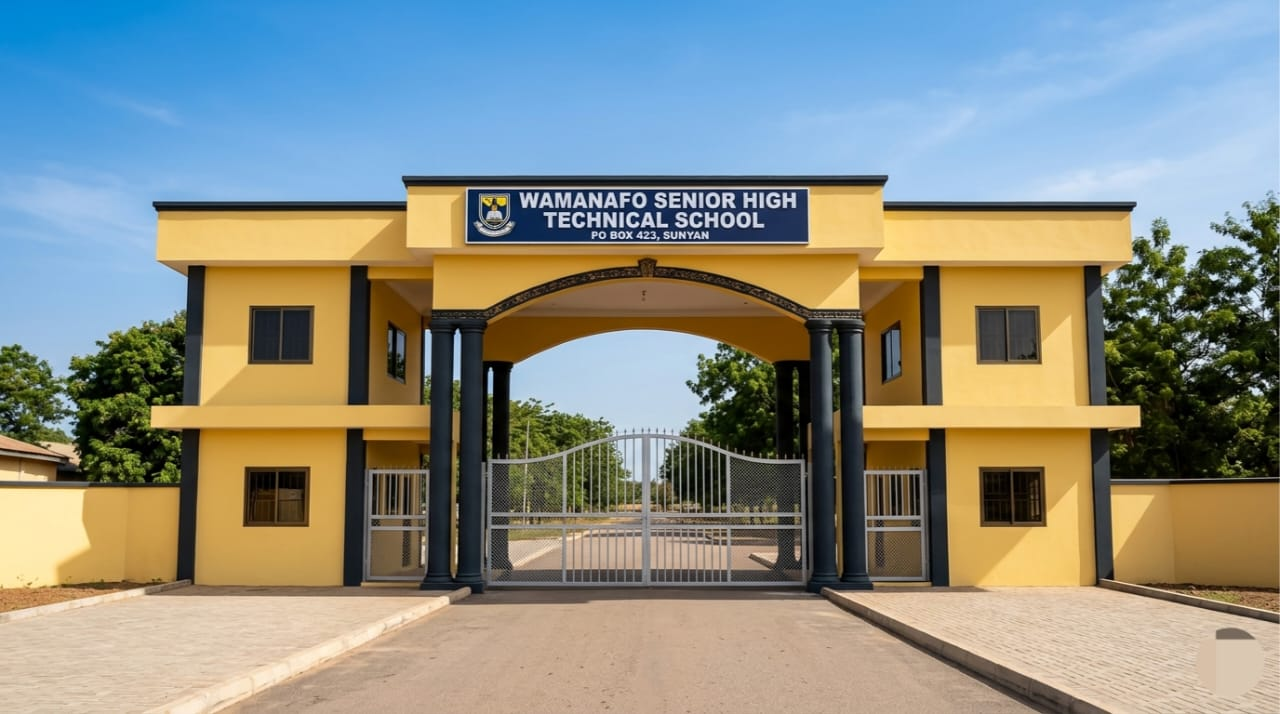
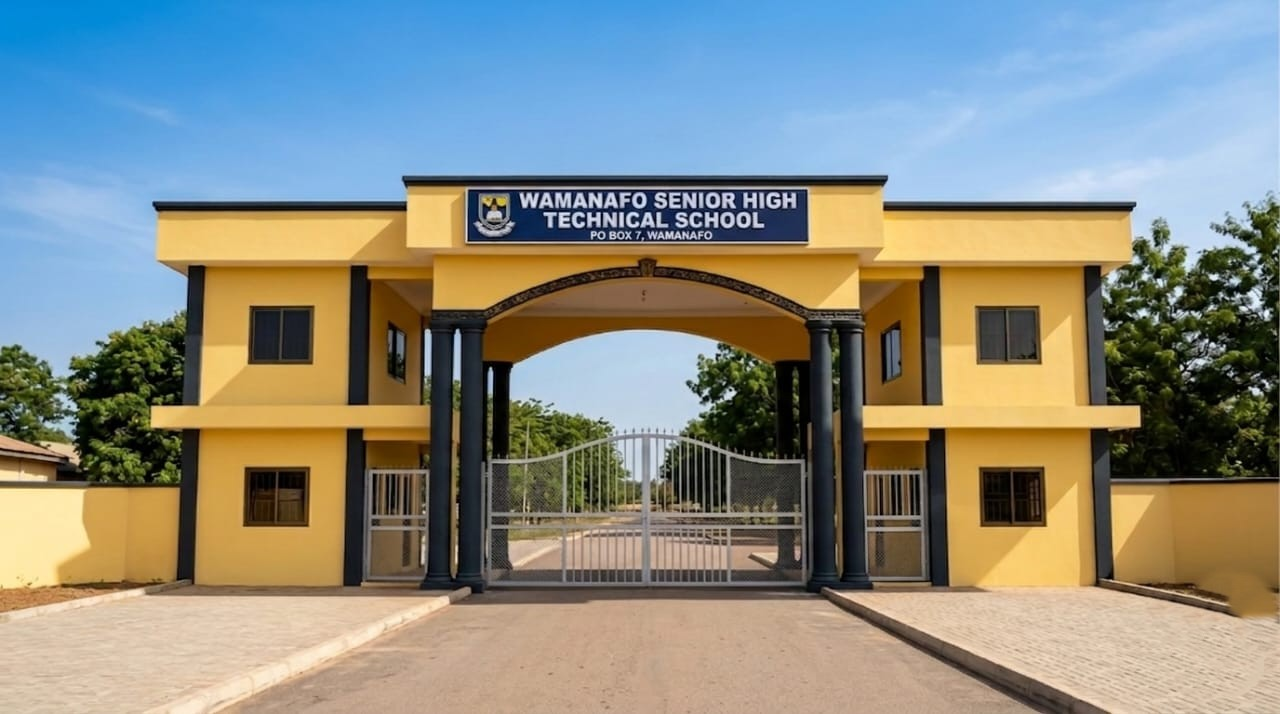
Fix frontend bugs (student, class, auth, errors)

diff --git a/components/forms/StudentForm.tsx b/components/forms/StudentForm.tsx
@@ -71,14 +71,14 @@ const inputClass = (hasError: boolean) =>
 
 interface CreateStudentFormProps {
   onSuccess: (studentId: string) => void;
-  classOptions?: Array<{ value: string; label: string }>;
-  yearOptions?:  Array<{ value: string; label: string }>;
+  classOptions?: Array<{ value: string; label: string; yearId?: string; yearLabel?: string }>;
+  yearOptions?: Array<{ value: string; label: string }>;
 }
 
 export function CreateStudentForm({
   onSuccess,
   classOptions = [],
-  yearOptions  = [],
+  yearOptions = [],
 }: CreateStudentFormProps) {
   const router = useRouter();
 
@@ -86,28 +86,57 @@ export function CreateStudentForm({
     register,
     handleSubmit,
     setError,
+    watch,
+    setValue,
+    clearErrors,
     formState: { errors, isSubmitting },
   } = useForm<CreateFormValues>({
     resolver: zodResolver(createFormSchema),
   });
 
+  const selectedClassId = watch("classId");
+  const selectedYearId = watch("yearId");
+  const selectedClass = classOptions.find((option) => option.value === selectedClassId);
+  const filteredYearOptions = selectedClass?.yearId
+    ? yearOptions.filter((option) => option.value === selectedClass.yearId)
+    : yearOptions;
+
+  useEffect(() => {
+    if (!selectedClass) return;
+    if (selectedClass.yearId && selectedYearId !== selectedClass.yearId) {
+      setValue("yearId", selectedClass.yearId, { shouldValidate: true, shouldDirty: true });
+    }
+    clearErrors("yearId");
+  }, [selectedClass, selectedYearId, setValue, clearErrors]);
+
   async function onSubmit(data: CreateFormValues) {
-    // Strip empty optional strings so backend doesn't see ""
+    if (data.classId && !data.yearId) {
+      setError("yearId", { message: "Select the academic year for the chosen class." });
+      return;
+    }
+
+    if (selectedClass?.yearId && data.yearId && selectedClass.yearId !== data.yearId) {
+      setError("yearId", {
+        message: `Selected class belongs to ${selectedClass.yearLabel ?? "a different academic year"}.`,
+      });
+      return;
+    }
+
     const payload = {
       ...data,
       dateOfBirth: data.dateOfBirth || undefined,
-      classId:     data.classId     || undefined,
-      yearId:      data.yearId      || undefined,
-      gender:      data.gender      || undefined,
+      classId: data.classId || undefined,
+      yearId: data.yearId || undefined,
+      gender: data.gender || undefined,
     };
 
     const res = await apiFetch<{ id: string }>("/api/v1/students", {
       method: "POST",
-      body:   JSON.stringify(payload),
+      body: JSON.stringify(payload),
     });
 
     if (!res.success) {
-      setError("root", { message: res.error ?? "An error occurred." });
+      setError("root", { message: res.error ?? "Unable to create the student right now." });
       return;
     }
 
@@ -190,10 +219,13 @@ export function CreateStudentForm({
           <Field label="Academic year" error={errors.yearId?.message}>
             <select {...register("yearId")} className={inputClass(!!errors.yearId)}>
               <option value="">Select year…</option>
-              {yearOptions.map((o) => (
+              {filteredYearOptions.map((o) => (
                 <option key={o.value} value={o.value}>{o.label}</option>
               ))}
             </select>
+            {selectedClass?.yearLabel && (
+              <p className="mt-1.5 text-xs text-slate-500">Chosen class belongs to {selectedClass.yearLabel}.</p>
+            )}
           </Field>
         </div>
       )}
@@ -234,6 +266,7 @@ export function CreateStudentForm({
 }
 
 // ── Edit form ─────────────────────────────────────────────────
+
 
 interface EditStudentFormProps {
   student: StudentDTO;

diff --git a/lib/api-client.ts b/lib/api-client.ts
@@ -67,17 +67,31 @@ export async function apiFetch<T = unknown>(
 
   const url = path.startsWith("http") ? path : `${API_BASE}${path}`;
 
-  const res = await fetch(url, { ...init, headers });
+  try {
+    const res = await fetch(url, { ...init, headers });
 
-  if (res.status === 401) {
-    // Token expired — clear and reload to login page
-    clearToken();
-    if (typeof window !== "undefined") window.location.href = "/login";
-    return { success: false, error: "Session expired. Please log in again.", code: "UNAUTHORIZED" };
+    if (res.status === 401) {
+      clearToken();
+      if (typeof window !== "undefined" && !skipAuth) window.location.href = "/login";
+      return { success: false, error: "Session expired. Please log in again.", code: "UNAUTHORIZED" };
+    }
+
+    const contentType = res.headers.get("content-type") ?? "";
+    if (contentType.includes("application/json")) {
+      const json = await res.json().catch(() => ({ success: false, error: "Invalid response." }));
+      return json as { success: true; data: T } | { success: false; error: string; code?: string };
+    }
+
+    const text = await res.text().catch(() => "");
+    if (!res.ok) {
+      return { success: false, error: text || `Request failed with status ${res.status}.`, code: "HTTP_ERROR" };
+    }
+
+    return { success: true, data: text as T };
+  } catch (error) {
+    const message = error instanceof Error ? error.message : "Network error. Please try again.";
+    return { success: false, error: message, code: "NETWORK_ERROR" };
   }
-
-  const json = await res.json().catch(() => ({ success: false, error: "Invalid response." }));
-  return json as { success: true; data: T } | { success: false; error: string; code?: string };
 }
 
 // ── Convenience helpers ───────────────────────────────────────

diff --git a/app/admin/students/new/page.tsx b/app/admin/students/new/page.tsx
@@ -10,12 +10,18 @@ import { PageHeader } from "@/components/shared/PageHeader";
 import { useQuery } from "@tanstack/react-query";
 import { apiFetch } from "@/lib/api-client";
 
+interface ClassOptionRow {
+  id: string;
+  name: string;
+  year: { id: string; name: string };
+}
+
 /** Fetch classes and years for enrolment dropdowns */
 function useEnrolmentOptions() {
   const classes = useQuery({
     queryKey: ["classes", "options"],
     queryFn: async () => {
-      const res = await apiFetch<{ items: Array<{ id: string; name: string }> }>("/api/v1/classes?pageSize=100");
+      const res = await apiFetch<{ items: ClassOptionRow[] }>("/api/v1/classes?pageSize=100");
       return res.success ? res.data : { items: [] };
     },
   });
@@ -36,9 +42,11 @@ export default function NewStudentPage() {
   const { classes, years } = useEnrolmentOptions();
 
   const classOptions =
-    (classes.data?.items ?? []).map((c: { id: string; name: string }) => ({
+    (classes.data?.items ?? []).map((c) => ({
       value: c.id,
-      label: c.name,
+      label: `${c.name} · ${c.year.name}`,
+      yearId: c.year.id,
+      yearLabel: c.year.name,
     }));
 
   const yearOptions =
@@ -53,8 +61,8 @@ export default function NewStudentPage() {
         title="Add New Student"
         description="Create a student account and optionally enrol them in a class."
         breadcrumbs={[
-          { label: "Admin",    href: "/admin/dashboard" },
-          { label: "Students", href: "/admin/students"  },
+          { label: "Admin", href: "/admin/dashboard" },
+          { label: "Students", href: "/admin/students" },
           { label: "New student" },
         ]}
       />

diff --git a/app/admin/terms/page.tsx b/app/admin/terms/page.tsx
@@ -70,9 +70,21 @@ function TermEditForm({
 
   async function onSubmit(data: TermEditValues) {
     setServerMsg(null);
+
+    if (data.startDate && data.endDate && new Date(data.endDate) <= new Date(data.startDate)) {
+      setServerMsg({ type: "error", text: "End date must be after start date." });
+      return;
+    }
+
+    const payload = {
+      ...data,
+      startDate: data.startDate?.trim() || null,
+      endDate: data.endDate?.trim() || null,
+    };
+
     const res = await apiFetch(`/api/v1/terms/${term.id}`, {
       method:  "PATCH",
-      body:    JSON.stringify(data),
+      body:    JSON.stringify(payload),
     });
     if (!res.success) {
       setServerMsg({ type: "error", text: res.error ?? "Update failed." });

diff --git a/app/admin/classes/[id]/page.tsx b/app/admin/classes/[id]/page.tsx
@@ -34,7 +34,7 @@ export default function ClassDetailPage() {
     queryKey: ["class-roster", id, cls?.year.id],
     queryFn: async () => {
       if (!cls?.year.id) return { data: [] };
-      const res = await apiFetch<Array<{ student: { id: string; indexNumber: string; status: string; user: { firstName: string; lastName: string } } }>>(`/api/v1/classes/${id}?resource=students&yearId=${cls.year.id}`);
+      const res = await apiFetch<Array<{ student: { id: string; indexNumber: string; status: string; user: { firstName: string; lastName: string } } }>>(`/api/v1/classes/${id}/enrollments?yearId=${cls.year.id}`);
       return res.success ? { data: res.data } : { data: [] };
     },
     enabled: !!cls?.year.id,

diff --git a/app/(auth)/login/page.tsx b/app/(auth)/login/page.tsx
@@ -66,8 +66,8 @@ export default function LoginPage() {
             <span className="text-yellow-400">Technical School</span>
           </h2>
           <p className="text-white/70 text-sm leading-relaxed max-w-md">
-            Empowering students with quality technical education.<br />
-            PO Box 423, Sunyan · Brong-Ahafo Region, Ghana
+            Equip  Student with the Requisite Skills.<br />
+            PO Box 7, Wamanafo ,Dormaa East,Ghana.
           </p>
           {/* Feature pills */}
           <div className="flex flex-wrap gap-2 mt-6">

diff --git a/app/admin/settings/page.tsx b/app/admin/settings/page.tsx
@@ -262,7 +262,7 @@ export default function SchoolSettingsPage() {
                 type="text"
                 value={form.address}
                 onChange={(e) => setForm((f) => ({ ...f, address: e.target.value }))}
-                placeholder="PO Box 423, Sunyan"
+                placeholder="PO Box 7, Wamanafo, Dormaa East, Ghana"
                 className="input"
               />
             </div>

diff --git a/middleware.ts b/middleware.ts
@@ -15,7 +15,7 @@ const ROLE_PREFIXES: Record<string, string> = {
   "/parent":  "PARENT",
 };
 
-const PUBLIC_PATHS = ["/login"];
+const PUBLIC_PATHS = ["/login", "/forgot-password", "/reset-password"];
 
 export function middleware(req: NextRequest): NextResponse {
   const { pathname } = req.nextUrl;
